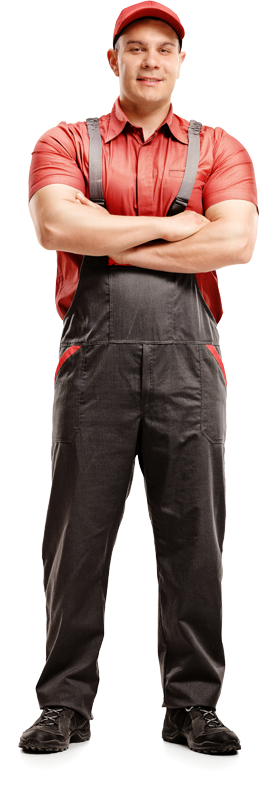
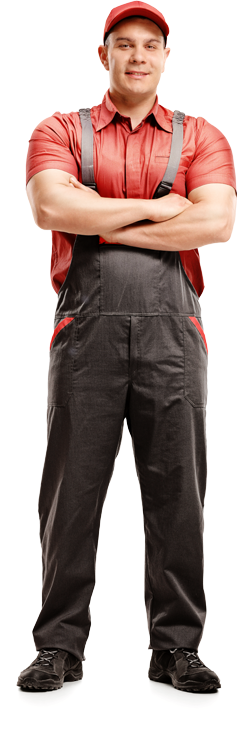
Fixed image profile

diff --git a/src/view/includes/header.html b/src/view/includes/header.html
@@ -6,7 +6,7 @@
     <title>Алмонд</title>
 
     <link rel="stylesheet" href="css/lib.min.css?ver=2.1">
-    <link rel="stylesheet" href="css/styles.min.css?ver=4.5">
+    <link rel="stylesheet" href="css/styles.min.css?ver=4.6">
 
     <link rel="apple-touch-icon" sizes="180x180" href="/favicon/apple-touch-icon.png?v=NmbNwk2o4n">
     <link rel="icon" type="image/png" sizes="32x32" href="/favicon/favicon-32x32.png?v=NmbNwk2o4n">

diff --git a/src/scss/components/_call-technologist.scss b/src/scss/components/_call-technologist.scss
@@ -78,7 +78,7 @@
       right: -192px;
       z-index: -1;
       position: absolute;
-      background: url(../img/decor/guy-bg.png.jpg) no-repeat right bottom;
+      background: url(../img/decor/guy-bg.jpg) no-repeat right bottom;
       background-size: contain;
       content: '';
     }

diff --git a/src/scss/components/_motivation.scss b/src/scss/components/_motivation.scss
@@ -6,7 +6,7 @@
   &::before {
     width: 895px;
     height: 527px;
-    background: url(../img/decor/notebook.jpg) no-repeat center;
+    background: url(../img/decor/notebook-2.jpg) no-repeat center;
     background-size: contain;
     position: absolute;
     bottom: 25px;

diff --git a/src/scss/components/_staff.scss b/src/scss/components/_staff.scss
@@ -147,7 +147,7 @@
       bottom: -10%;
       z-index: 2;
       position: absolute;
-      background: url(../img/decor/man.png) no-repeat center;
+      background: url(../img/decor/man-2.png) no-repeat center;
       background-size: contain;
       content: '';
     }

diff --git a/src/scss/components/_main-section.scss b/src/scss/components/_main-section.scss
@@ -1,6 +1,6 @@
 .main-section {
   font-family: $font-family-head;
-  background: url(../img/bg/bg-header.jpg) no-repeat bottom center #f8d3ae;
+  background: url(../img/bg/bg-header-2.jpg) no-repeat bottom center #f8d3ae;
 }
 
 .main-section-inner {

diff --git a/gulpfile.js b/gulpfile.js
@@ -40,7 +40,8 @@ gulp.task('browser-sync', function () {
         server: {
             baseDir: './build'
         },
-        notify: false
+        notify: false,
+        port: 9000
     })
 });
 
